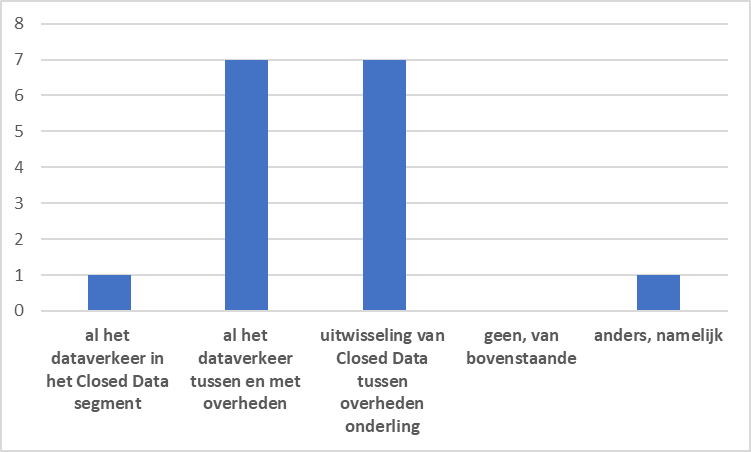
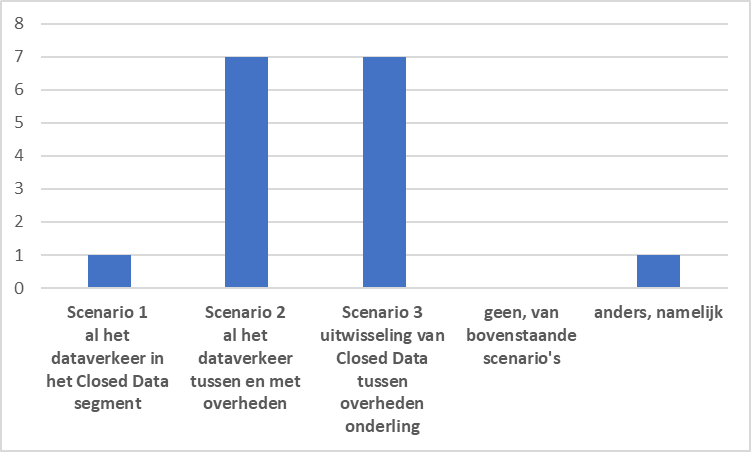
scope added to index. new abstract doc

diff --git a/index.html b/index.html
@@ -9,11 +9,7 @@
     <script src="http://docs.centrumvoorstandaarden.nl/respec-tools/builds/respec-build.js" class="remove" async></script>
   </head>
   <body>
-    <section id='abstract'>
-      <p>
-        Samenvatting van het document - verplicht onderdeel. TODO
-      </p>
-    </section>
+    <section id='abstract' data-format="markdown" data-include="abstract.md"></section>
     <section id='sotd'>
       <p>
         Status van het document - verplicht onderdeel. Een deel van de tekst wordt hierin gegenereerd door ReSpec op basis van de configuratieparameter <a href="https://github.com/centrumvoorstandaarden/respec/wiki/specStatus">specStatus</a>. Je kan dit zelf aanvullen door hier wat te typen. TODO
@@ -21,6 +17,7 @@
    </section>
    <!-- De rest van het document kun je in Markdown schrijven.  -->
    <section data-format="markdown" data-include="00_voorwoord.md"></section>
+   <section data-format="markdown" data-include="01_scope.md"></section>
    <section data-format="markdown" data-include="02_behoefte.md"></section>
    <section data-format="markdown" data-include="03_richting.md"></section>
    <section data-format="markdown" data-include="04_RESTfulAPis.md"></section>

diff --git a/01_scope.md b/01_scope.md
@@ -82,31 +82,39 @@ Daarnaast worden er een aantal uitzonderingen genoemd die duidelijk maken dat er
 
 ### Reacties
 
->Het onderscheid binnen en buiten de overheid is steeds minder relevant. Gegevensregistraties en transactiesystemen van de overheid worden gebruikt door zowel andere overheden als door partijen buiten de overheid. Gedwongen daarbij een onderscheid maken is dubbel werk voor iedereen. Ondertussen blijft het wel relevant om een set standaarden te hebben die door iedereen in het netwerk toegepast kunnen worden.
+```
+note: niet iedereen heeft bij deze vraag op- of aanmerkingen geplaatst. Bij de geplaatste opmerkingen is de scenariokeuze vermeld.
+```
 
->En bedrijven met een (deels) wettelijke taak en/of service providers onder verantwoordelijkheid van de overheid.
+#### Scenario 2 (al het dataverkeer tussen en met overheden)
 
->Inclusief (semi) publieke sector (!). 
-Ik twijfel tussen 1 en 3, want zie ook voordelen in het gebruik van digikoppeling standaard, inclusief authenticatie / beveiligingsaspecten, voor closed data segment tussen bedrijven en overheden / semi publieke sector. 
-Citizens zullen niet zo vaak over digikoppeling faciliteiten beschikken, lijkt me. "
+>(scenario 2) Het onderscheid binnen en buiten de overheid is steeds minder relevant. Gegevensregistraties en transactiesystemen van de overheid worden gebruikt door zowel andere overheden als door partijen buiten de overheid. Gedwongen daarbij een onderscheid maken is dubbel werk voor iedereen. Ondertussen blijft het wel relevant om een set standaarden te hebben die door iedereen in het netwerk toegepast kunnen worden.
 
->opmerking: in veel client applicaties wordt altijd een combinatie van open en closed data getoond. indien al deze data met 1 standaard bij de overheid is in te zien is dat veel gebruiksvriendelijker dan wanneer verschillende standaarden gelden en er ergens moet worden beschreven wanneer je welke standaarden toepast.
+>(scenario 2) opmerking: in veel client applicaties wordt altijd een combinatie van open en closed data getoond. indien al deze data met 1 standaard bij de overheid is in te zien is dat veel gebruiksvriendelijker dan wanneer verschillende standaarden gelden en er ergens moet worden beschreven wanneer je welke standaarden toepast.
 
->Volgens mij kloppen de letters niet helemaal, zou moeten zijn C2G, B2G en G2G.
+>(scenario 2) Deze vraag heeft misschien ook een afhankelijkheid naar het beheervraagstuk, wie gaat de RESTful API standaarden en profielen beheren. Verder hebben verschillende RESTful standaarden een ander functioneel toepassingsgebied dan nu voor DK geldt. Naar ik begrijp wordt Logius verantwoordelijk voor beheer maar er is hiermee tevens behoefte aan een community die beheer/doorontwikkeling begeleid. Als dit het TO DK is dan lijkt het me logisch dat de scope van DK wordt aangepast naar #2 om ook aan te sluiten bij de functionele toepassingsgebieden van REST standaarden/profielen. Als er een ander gremium wordt ingericht dan kan dit #3 blijven maar moeten er wel duidelijke afspraken zijn hoe eea zich tot elkaar verhoudt. Verder is het wenselijk om generieke beveiligingsvoorschriften te hebben die voor DK als REST relevant zijn, bijvoorbeeld TLS. Ongeacht scope er is een noodzaak voor overzicht en samenhang
+
+>(scenario 2) Er is steeds minder sprake van een verschil tussen binnen en buiten de overheid. Zeker nu ook private partijen subOIN's mogen aanvragen. Eenheid en afspraken over hoe het berichtenverkeer plaatsvindt is wel belangrijk.
+
+>(scenario 2) Ondanks dat het over alle dataverkeer gaat, moeten profielen komen voor enerzijds open-data en anderzijds closed-data. Met de voorwaarden dat open-data niet beveiligd hoeft te worden, terwijl closed-data beveiligd moet worden.
+
+#### Scenario 3 (uitwisseling van Closed Data tussen overheden onderling)
+
+>(scenario 3) En bedrijven met een (deels) wettelijke taak en/of service providers onder verantwoordelijkheid van de overheid.
+
+>(scenario 3) Inclusief (semi) publieke sector (!).
+Ik twijfel tussen 1 en 3, want zie ook voordelen in het gebruik van digikoppeling standaard, inclusief authenticatie / beveiligingsaspecten, voor closed data segment tussen bedrijven en overheden / semi publieke sector.
+>Citizens zullen niet zo vaak over digikoppeling faciliteiten beschikken, lijkt me.
+
+>(scenario 3) Volgens mij kloppen de letters niet helemaal, zou moeten zijn C2G, B2G en G2G.
 Scenario 1 is aantrekkelijk, maar dan zou je de DK standaard moeten uitbreiden met extra opties, met name voor C2G uitwisseling. En ook voor B2G zijn er veilige opties die nu niet onder de DK standaard vallen.
 Het is overigens niet verboden om niet-privacy gevoelige data te versturen over een Digikoppeling verbinding.
 
->Deze vraag heeft misschien ook een afhankelijkheid naar het beheervraagstuk, wie gaat de RESTful API standaarden en profielen beheren. Verder hebben verschillende RESTful standarden een ander functioneel toepassingsgebied dan nu voor DK geldt. Naar ik begrijp wordt Logius verantwoordelijk voor beheer maar er is hiermee tevens behoefte aan een community die beheer/doorontwikkeling begeleid. Als dit het TO DK is dan lijkt het me logisch dat de scope van DK wordt aangepast naar #2 om ook aan te sluiten bij de functionele toepassingsgebieden van REST standaarden/profielen. Als er een ander gremium wordt ingericht dan kan dit #3 blijven maar moeten er wel duidelijke afspraken zijn hoe eea zich tot elkaar verhoudt. Verder is het wenselijk om generieke beveiligingsvoorschriften te hebben die voor DK als REST relevant zijn, bijvoorbeeld TLS. Ongeacht scope er is een noodzaak voor overzicht en samenhang  
+>(scenario 3) Volgens mij is en moet de scope ook beperkt blijven tot closed data tussen overheden onderling. Met als kanttekening dat duidelijker moet worden dat als er een alternatief is (NEN3610 of API of ..) dat er géén verplichting is DK te gebruiken
 
->Volgens mij is en moet de scope ook beperkt blijven tot closed data tussen overheden onderling. Met als kanttekening dat duidelijker moet worden dat als er een alternatief is (NEN3610 of API of ..) dat er géén verplichting is DK te gebruiken
-
-> _(anders, namelijk...)_ de scope van Digikoppeling zou naar mijn mening moeten zijn de uitwisseling van data tussen overheden onderling en met organisaties die een publieke taak vervullen. Dus voor de uitwisseling van gegevens tussen organisaties met een OIN. Of de data open of gesloten is maakt daarbij niet uit. Digikoppeling gaat over veilig transport tussen organisaties. Het kan best zijn dat ik als organisatie ook bij het opvragen van open gegevens zeker wil zijn van (a) de identiteit van de afzender en (b) dat de gegevens tijdens transport niet gewijzigd zijn. Ik kan dus besluiten dat ik de open gegevens via Digikoppeling wil ontvangen. De toepassing van Digikoppeling is dus niet onder te verdelen in transport van open of gesloten gegevens, er zijn andere overwegingen te maken voor de toepassing van Digikoppeling
-
->Er is steeds minder sprake van een verschil tussen binnen en buiten de overheid. Zeker nu ook private partijen subOIN's mogen aanvragen. Eenheid en afspraken over hoe het berichtenverkeer plaatsvindt is wel belangrijk.
-
->Ondanks dat het over alle dataverkeer gaat, moeten profielen komen voor enerzijds open-data en anderzijds closed-data. Met de voorwaarden dat open-data niet beveiligd hoeft te worden, terwijl closed-data beveiligd moet worden.
-
->Je moet geen voorzieningen gaan delen met de markt, mochten die in de standaard worden vastgesteld.
->
+>(scenario 3) Je moet geen voorzieningen gaan delen met de markt, mochten die in de standaard worden vastgesteld.
 >Standaard afspreken zou nog kunnen, maar dit overleg heeft niet de capaciteit om die verplicht te stellen. Eerder volgt de overheid de markt-standaarden.
 
+#### anders, namelijk
+
+>_(anders, namelijk...)_ de scope van Digikoppeling zou naar mijn mening moeten zijn de uitwisseling van data tussen overheden onderling en met organisaties die een publieke taak vervullen. Dus voor de uitwisseling van gegevens tussen organisaties met een OIN. Of de data open of gesloten is maakt daarbij niet uit. Digikoppeling gaat over veilig transport tussen organisaties. Het kan best zijn dat ik als organisatie ook bij het opvragen van open gegevens zeker wil zijn van (a) de identiteit van de afzender en (b) dat de gegevens tijdens transport niet gewijzigd zijn. Ik kan dus besluiten dat ik de open gegevens via Digikoppeling wil ontvangen. De toepassing van Digikoppeling is dus niet onder te verdelen in transport van open of gesloten gegevens, er zijn andere overwegingen te maken voor de toepassing van Digikoppeling

diff --git a/02_behoefte.md b/02_behoefte.md
@@ -25,11 +25,11 @@ Veel overheidsorganisaties zien de voordelen van het (verplicht) gebruik van sta
 >Een digitale maatschappij kan alleen functioneren als de overheid zichzelf in voldoende mate heeft gedigitaliseerd, zowel voor haar kerntaken, dienstverlening als innovatie.
 
 >De hierboven genoemde voordelen zijn ook in mijn ogen belangrijkste behoefte.
->Digikoppeilng standaarden bieden een gemeenschappelijke basis op basis waarvan veel projecten sneller gerealiseerd kunnen worden dan zonder zo'n basis. Het ondersteund organisaties die wellicht zelf niet altijd de expertise in huis hebben om dergelijke architectuur/technische keuzes goed te maken.
->Tevens is het bevorderlijk voor de continuïteit van het beheer voor alle betrokken partijen. Niet dat EBMS2 of WUS perfect zijn, maar zonder de standaard zouden er 1001 oplossingen zijn, geen interoperability, etc.
+>Digikoppeilng standaarden bieden een gemeenschappelijke basis op basis waarvan veel projecten sneller gerealiseerd kunnen worden dan zonder zo'n basis. Het ondersteunt organisaties die wellicht zelf niet altijd de expertise in huis hebben om dergelijke architectuur/technische keuzes goed te maken.
+>Tevens is het bevorderlijk voor de continuïteit van het beheer voor alle betrokken partijen. Niet dat ebMS2 of WUS perfect zijn, maar zonder de standaard zouden er 1001 oplossingen zijn, geen interoperability, etc.
 >Oftewel, Digikoppeling voorziet in de behoefte naar een standaard voor closed data uitwisseling :).
 
->een simpele verwijzing voor elke leek die iets moet met gegevensuitwisseling. men wil simpelweg kunnen zeggen "Dat moet met de Digikoppeling standaard". Daarna kunnen de leveranciers, developers en engineers zelf  uitzoeken wat dat betekend en hoe dat dan in detail moet worden gedaan. vergelijkbaar met de opmerkingen " stop de data in een database" en "zorg dat het veilig is
+>een simpele verwijzing voor elke leek die iets moet met gegevensuitwisseling. men wil simpelweg kunnen zeggen "Dat moet met de Digikoppeling standaard". Daarna kunnen de leveranciers, developers en engineers zelf  uitzoeken wat dat betekent en hoe dat dan in detail moet worden gedaan. vergelijkbaar met de opmerkingen " stop de data in een database" en "zorg dat het veilig is" 
 
 >Ik denk dat je de kern overeind moet houden: interoperabel, veilig en betrouwbaar verkeer o.b.v. identificatie, authenticatie en vertrouwelijkheid. Kies daarbij standaarden die (voor een langere periode) ondersteund worden door gangbare oplossingen in de markt.
 
@@ -49,4 +49,4 @@ Veel overheidsorganisaties zien de voordelen van het (verplicht) gebruik van sta
 Daarnaast draagt het bij aan de creativiteit bij de ontwikkeling van diensten.
 
 >De zekerheid dat er veilige verbindingen met goed geauthenticeerde overheidspartijen worden opgezet.
-Maar veel overheidspartijen vragen om makkelijker, goedkopere alternatieven."
+Maar veel overheidspartijen vragen om makkelijker, goedkopere alternatieven.

diff --git a/abstract.md b/abstract.md
@@ -1,0 +1,41 @@
+# Samenvatting 
+
+## 1. Scope van Digikoppeling
+
+![Vraag 1.0](media/vraag_1_0_chart.png "Opgetelde scores van vraag 1.0")
+
+Het valt op dat de leden kiezen voor een scope van Digikoppeling die heel breed is (al het verkeer met de overheden)  of beperkt moet worden tot _closed data_ tssen overheden onderling.
+
+## Motivatie voor scenario 2 (al het dataverkeer tussen en met overheden)
+
+- onderscheid maken in dit verkeer is steeds minder relevant. 
+- Gegevensregistraties en transactiesystemen van de overheid worden gebruikt door zowel overheden als door private partijen.
+- in veel client applicaties wordt altijd een combinatie van open en closed data getoond
+- heeft een afhankelijkheid naar het beheervraagstuk: Als Logius beheerder en de  community het Tecnisch Overleg DK dan scope van DK scenario #2 om ook aan te sluiten bij de functionele toepassingsgebieden van REST standaarden/profielen.
+- Het is wenselijk om generieke beveiligingsvoorschriften te hebben voor DK als REST
+- er moeten profielen komen voor enerzijds open-data en anderzijds closed-data.
+
+## Motivatie voor scenario 3 (al het dataverkeer tussen en met overheden)
+
+- ook voor (semi) publieke sector en serviceproviders onder verantwoordelijkheid van de overheid
+- er zijn voordelen in het gebruik van Digikoppeling standaard, inclusief authenticatie / beveiligingsaspecten
+- als er een alternatief is (NEN3610 of API of ..) is er géén verplichting om DK te gebruiken
+- geen voorzieningen delen met de markt
+- dit overleg heeft niet de capaciteit om die verplicht te stellen. Eerder volgt de overheid de markt-standaarden.
+
+## Ander scenario
+
+- de uitwisseling van data tussen overheden onderling en met organisaties die een publieke taak vervullen. Of de data open of gesloten is maakt daarbij niet uit
+
+## 2. Behoefte waarin Digikoppeling voorziet
+
+- Duidelijkheid over koppelen van systemen tussen en met de overheid
+- Interoperabiliteit, voorkomen dat ieder voor zich bilateraal afspraken moet maken
+- de toegangsbarriere voor nieuwe toepassingen voor reeds beschikbare gegevenssets gaat omlaag
+- Standaardisatie leidt tot lagere kosten en eenvoudig aansluiten.
+- Gestandaardiseerde beveiliging en interactiepatronen 
+- kern overeind houden: interoperabel, veilig en betrouwbaar verkeer o.b.v. identificatie, authenticatie en vertrouwelijkheid
+- pas puur de internationale standaarden toe en beperk zo min mogelijk
+
+## 3. Waar willen we heen met Digikoppeling?
+

diff --git a/00_voorwoord.md b/00_voorwoord.md
@@ -13,7 +13,7 @@ Voordat we een aantal vragen stellen, eerst enige informatie over de Digikoppeli
 ## Wat is Digikoppeling?
 
 | Standaard| Digikoppeling| Koppelvlakspecificatie |
-|---|---|---|
+|---|------------------------------------------------------------|---|
 |![Digikoppeling Venn](media/DK_Venn.png "Digikoppeling structuur")|Digikoppeling is een verzameling van een aantal standaarden en afspraken, ebMS2, WUS en Grote Berichten. Digikoppeling maakt het mogelijk dat organisatie interoperabel, veilig en betrouwbaar gegevens kunnen uitwisselen. |![Digikoppeling Venn](media/DK_KVS.png "Profielen in Digikoppeling ")|
 
 Digikoppeling regelt:
